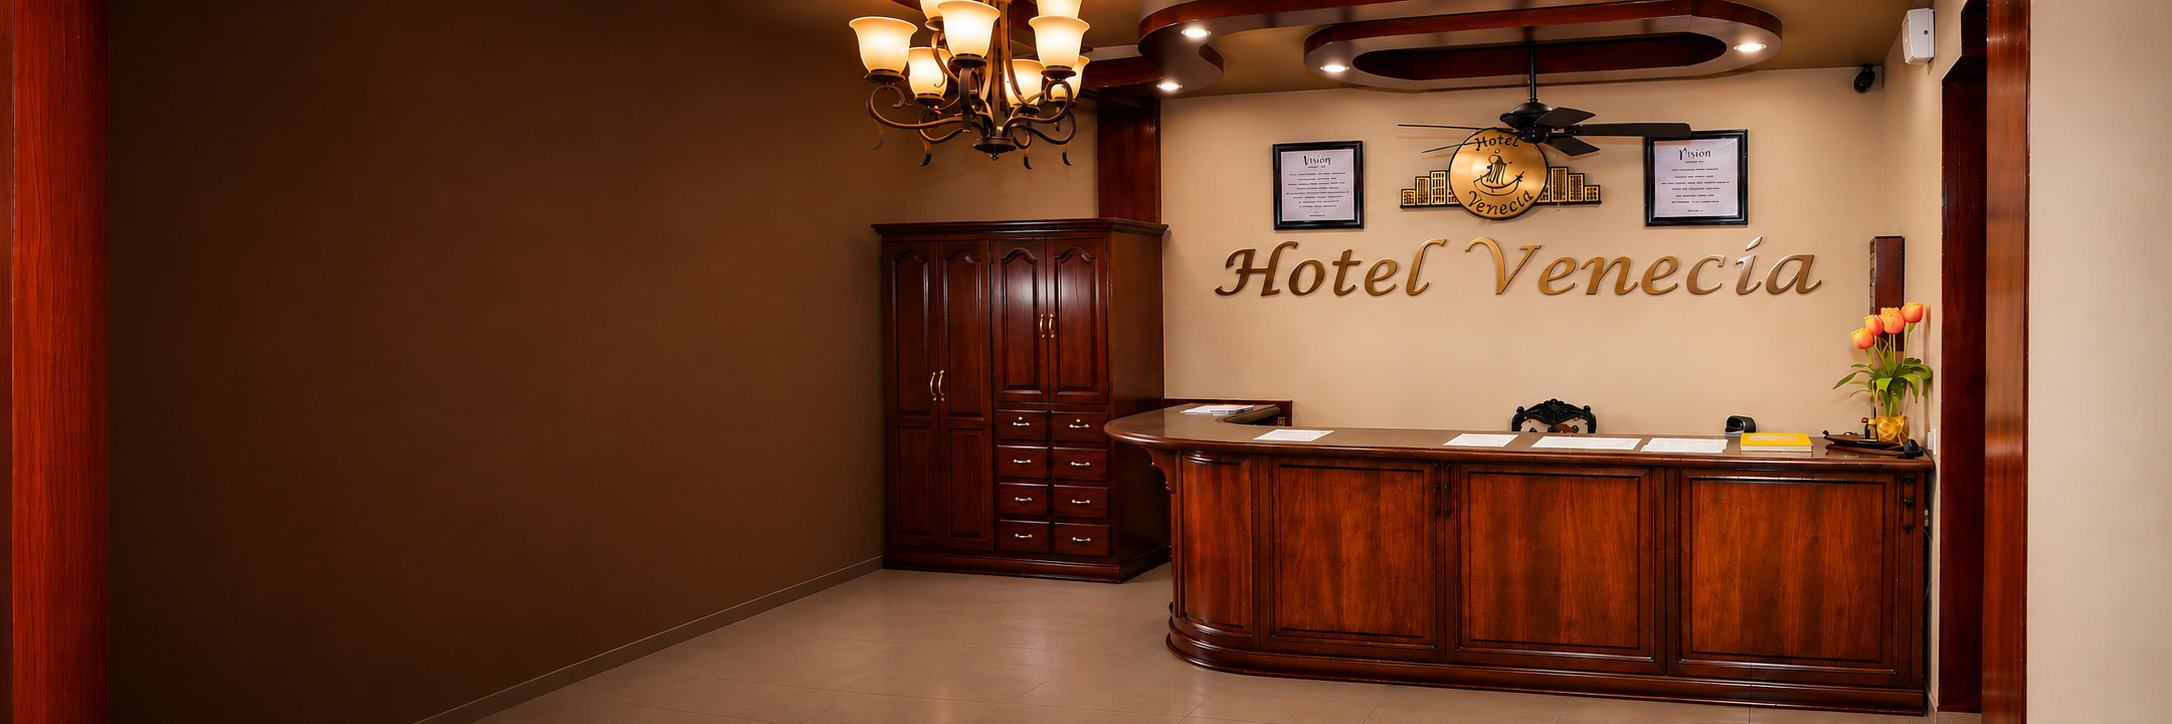
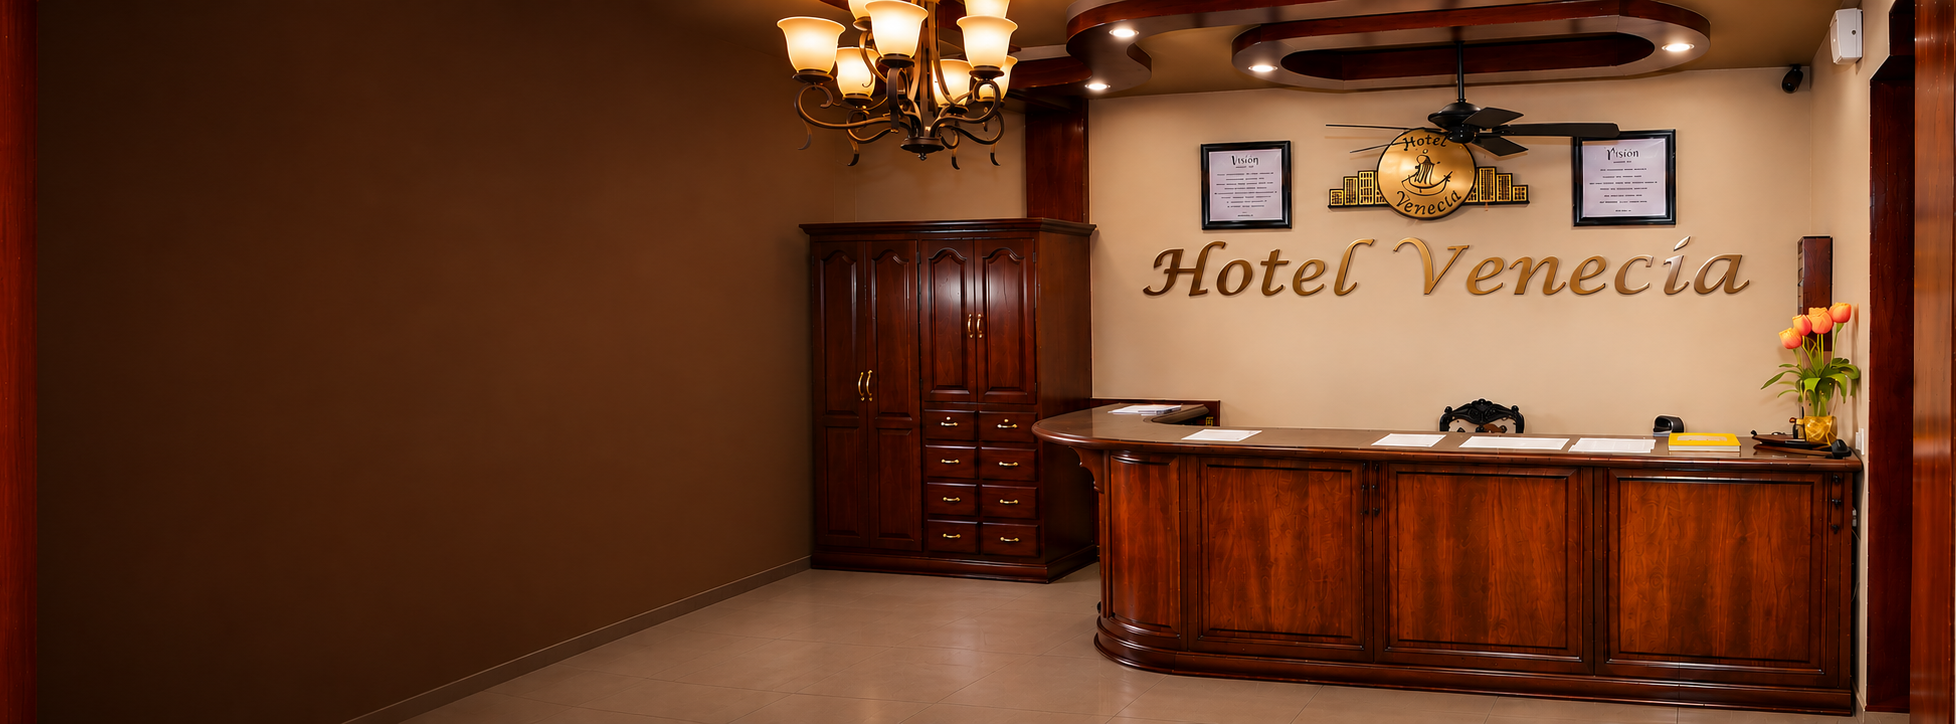
cambio luigi

diff --git a/index.html b/index.html
@@ -19,7 +19,7 @@
   <link
     href="https://fonts.googleapis.com/css2?family=Fraunces:opsz,wght@9..144,500;9..144,700&family=Inter:wght@400;500;600&display=swap"
     rel="stylesheet">
-  <link rel="preload" as="image" href="assets/img/lobbyz.png?v=20261120u">
+  <link rel="preload" as="image" href="assets/img/lobbyz.png?v=20261120z">
   <link rel="stylesheet" href="css/styles.css?v=20261120y">
   <style>
     /* Galería deslizante editorial (Carrusel horizontal con vista previa lateral) */
@@ -160,7 +160,7 @@
     <!-- ===== Portada Editorial ===== -->
     <section class="hero" id="inicio" aria-label="Portada Hotel Plaza Venecia">
       <div class="hero__slider" id="hero-slider">
-        <div class="hero__slide is-active" style="background-image:url('assets/img/lobbyz.png?v=20261120u')"></div>
+        <div class="hero__slide is-active" style="background-image:url('assets/img/lobbyz.png?v=20261120z')"></div>
         <div class="hero__slide" style="background-image:url('assets/img/habitacion-suite.png?v=20261120w')"></div>
         <div class="hero__slide" style="background-image:url('assets/img/bar-venetto.jpg?v=20261120x')"></div>
       </div>
